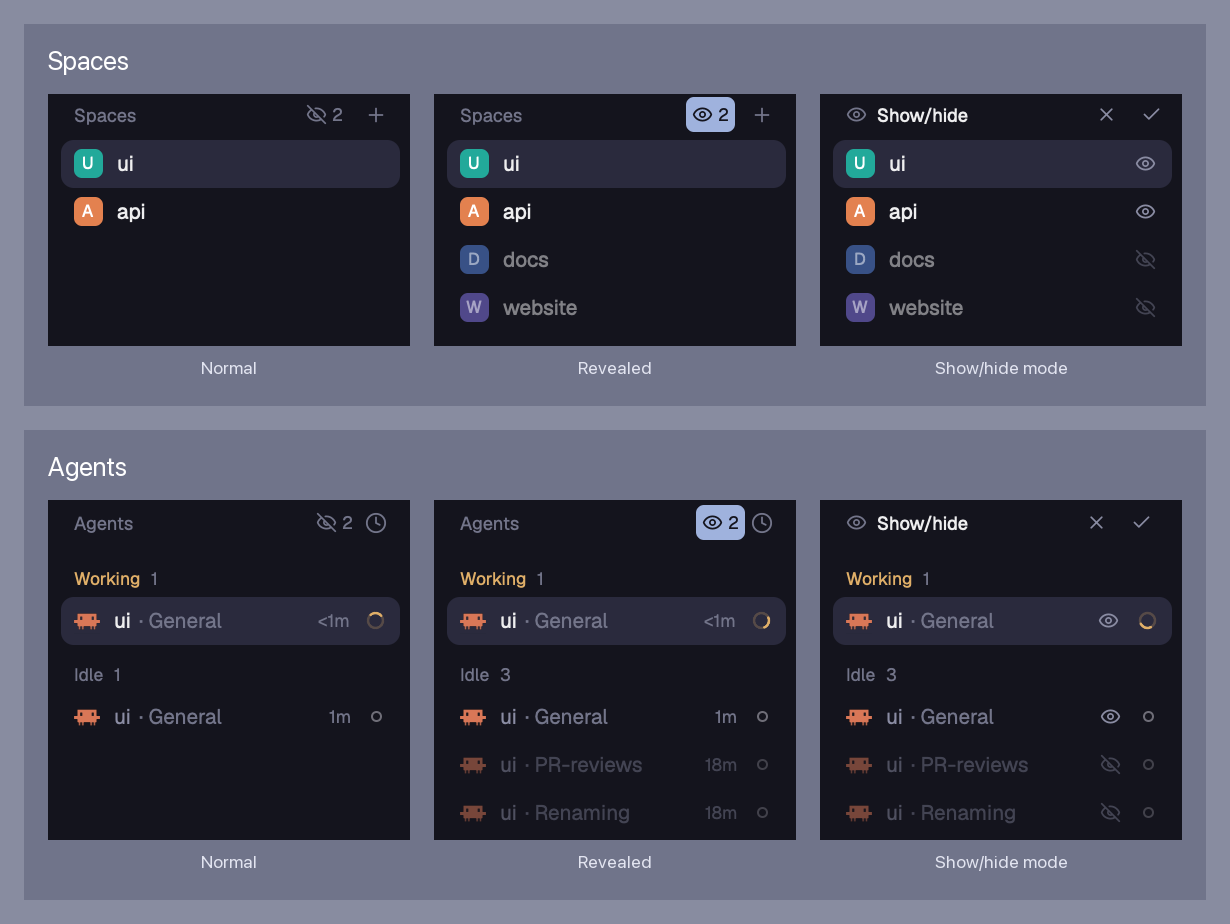
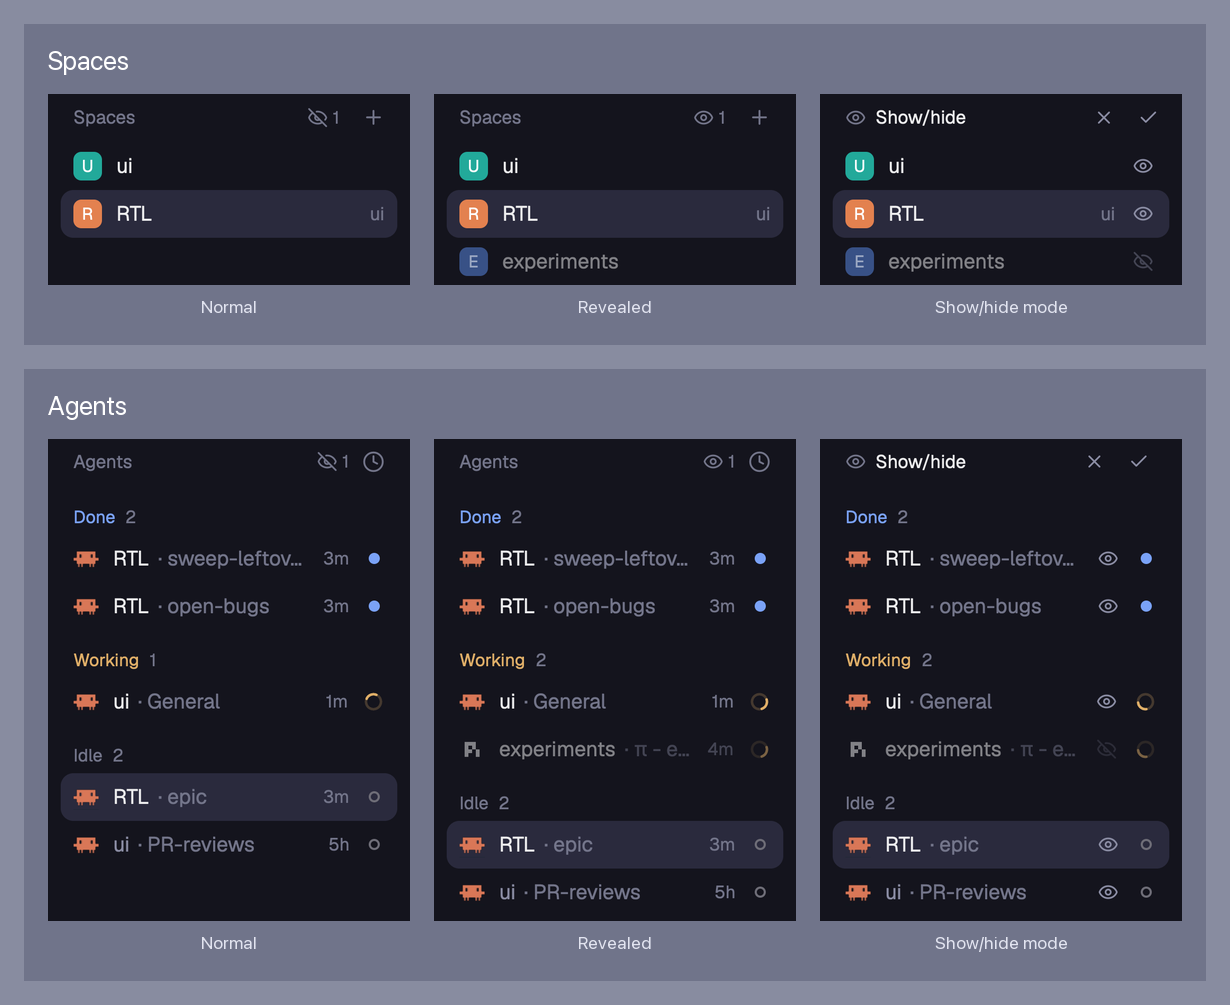
New preview, and no highlight on the reveal button
The reveal button now keeps its plain look while hidden rows show: the
open eye already says it. The new preview shows that, and a hidden space
whose agent is hidden with it.

diff --git a/mods/show-hide-agents/visibility.js b/mods/show-hide-agents/visibility.js
@@ -110,11 +110,6 @@ export class Visibility {
       .text_size(11)
       .text_color(t.dim)
       .hover((s) => s.bg(t.hover).text_color(t.foreground))
-      /**
-       * Revealed: accent text on a faint accent tint. A solid accent block drew the eye away from
-       * the rows while working in a dimmed space; the tint still says hidden rows are on screen.
-       */
-      .when(this.revealed() && count > 0, (el) => el.text_color(t.accent).bg(t.accent + "1f").hover((s) => s.bg(t.accent + "38").text_color(t.accent)))
       .tooltip(this.revealed() && count ? `${count} hidden rows are shown for a look. Turn that off with the reveal key.` : count ? `Show or hide rows (${count} hidden)` : "Show or hide rows")
       .on_click((_e, cx) => {
         this.start();

diff --git a/mods/show-hide-spaces/visibility.js b/mods/show-hide-spaces/visibility.js
@@ -110,11 +110,6 @@ export class Visibility {
       .text_size(11)
       .text_color(t.dim)
       .hover((s) => s.bg(t.hover).text_color(t.foreground))
-      /**
-       * Revealed: accent text on a faint accent tint. A solid accent block drew the eye away from
-       * the rows while working in a dimmed space; the tint still says hidden rows are on screen.
-       */
-      .when(this.revealed() && count > 0, (el) => el.text_color(t.accent).bg(t.accent + "1f").hover((s) => s.bg(t.accent + "38").text_color(t.accent)))
       .tooltip(this.revealed() && count ? `${count} hidden rows are shown for a look. Turn that off with the reveal key.` : count ? `Show or hide rows (${count} hidden)` : "Show or hide rows")
       .on_click((_e, cx) => {
         this.start();

diff --git a/RECIPE.md b/RECIPE.md
@@ -30,6 +30,9 @@ them again, and the header says how many are hidden.
   mode started.
 - Hiding a main checkout hides its worktree spaces too; showing it brings them
   back. Their own eyes are locked while the checkout is hidden.
+- Hiding a space hides the agents in it too. Their eyes are locked, with the
+  tooltip "Hidden with its space", until the space is shown again. The agents
+  mod reads the spaces mod's hidden list, so without that mod nothing changes.
 - A hidden space disappears from the list even when it is the space you are in.
 - A hidden agent with status `blocked` (it needs you) is listed again until it
   is answered. Hidden agents are left out of the agent order, so
@@ -40,8 +43,8 @@ them again, and the header says how many are hidden.
   `show-hide-agents.visibility` start show/hide mode, or save it when it is on.
   `show-hide-agents.reveal` (or `show-hide-spaces.reveal`) shows the hidden
   rows of both lists, dimmed, and hides them again on the next press. While
-  they show, the header button turns `accent` with `accent_foreground` text and
-  an open eye, so it is clear that hidden rows are on screen.
+  they show, the header button keeps its plain look with an open eye, so the
+  icon alone says that hidden rows are on screen.
 
 ## Built from
 

diff --git a/README.md b/README.md
@@ -21,8 +21,7 @@ what you do not need, then save, or discard to undo.
   a minute.
 - **Peek at hidden rows.** The `reveal` command shows every hidden space and
   agent, dimmed, without starting show/hide mode. Run it again to hide them.
-  It works for both lists at once. While hidden rows show, the header button
-  gets a light accent tint.
+  It works for both lists at once.
 - **Keys:** bind them in `keys.json`, for example:
 
   ```json
